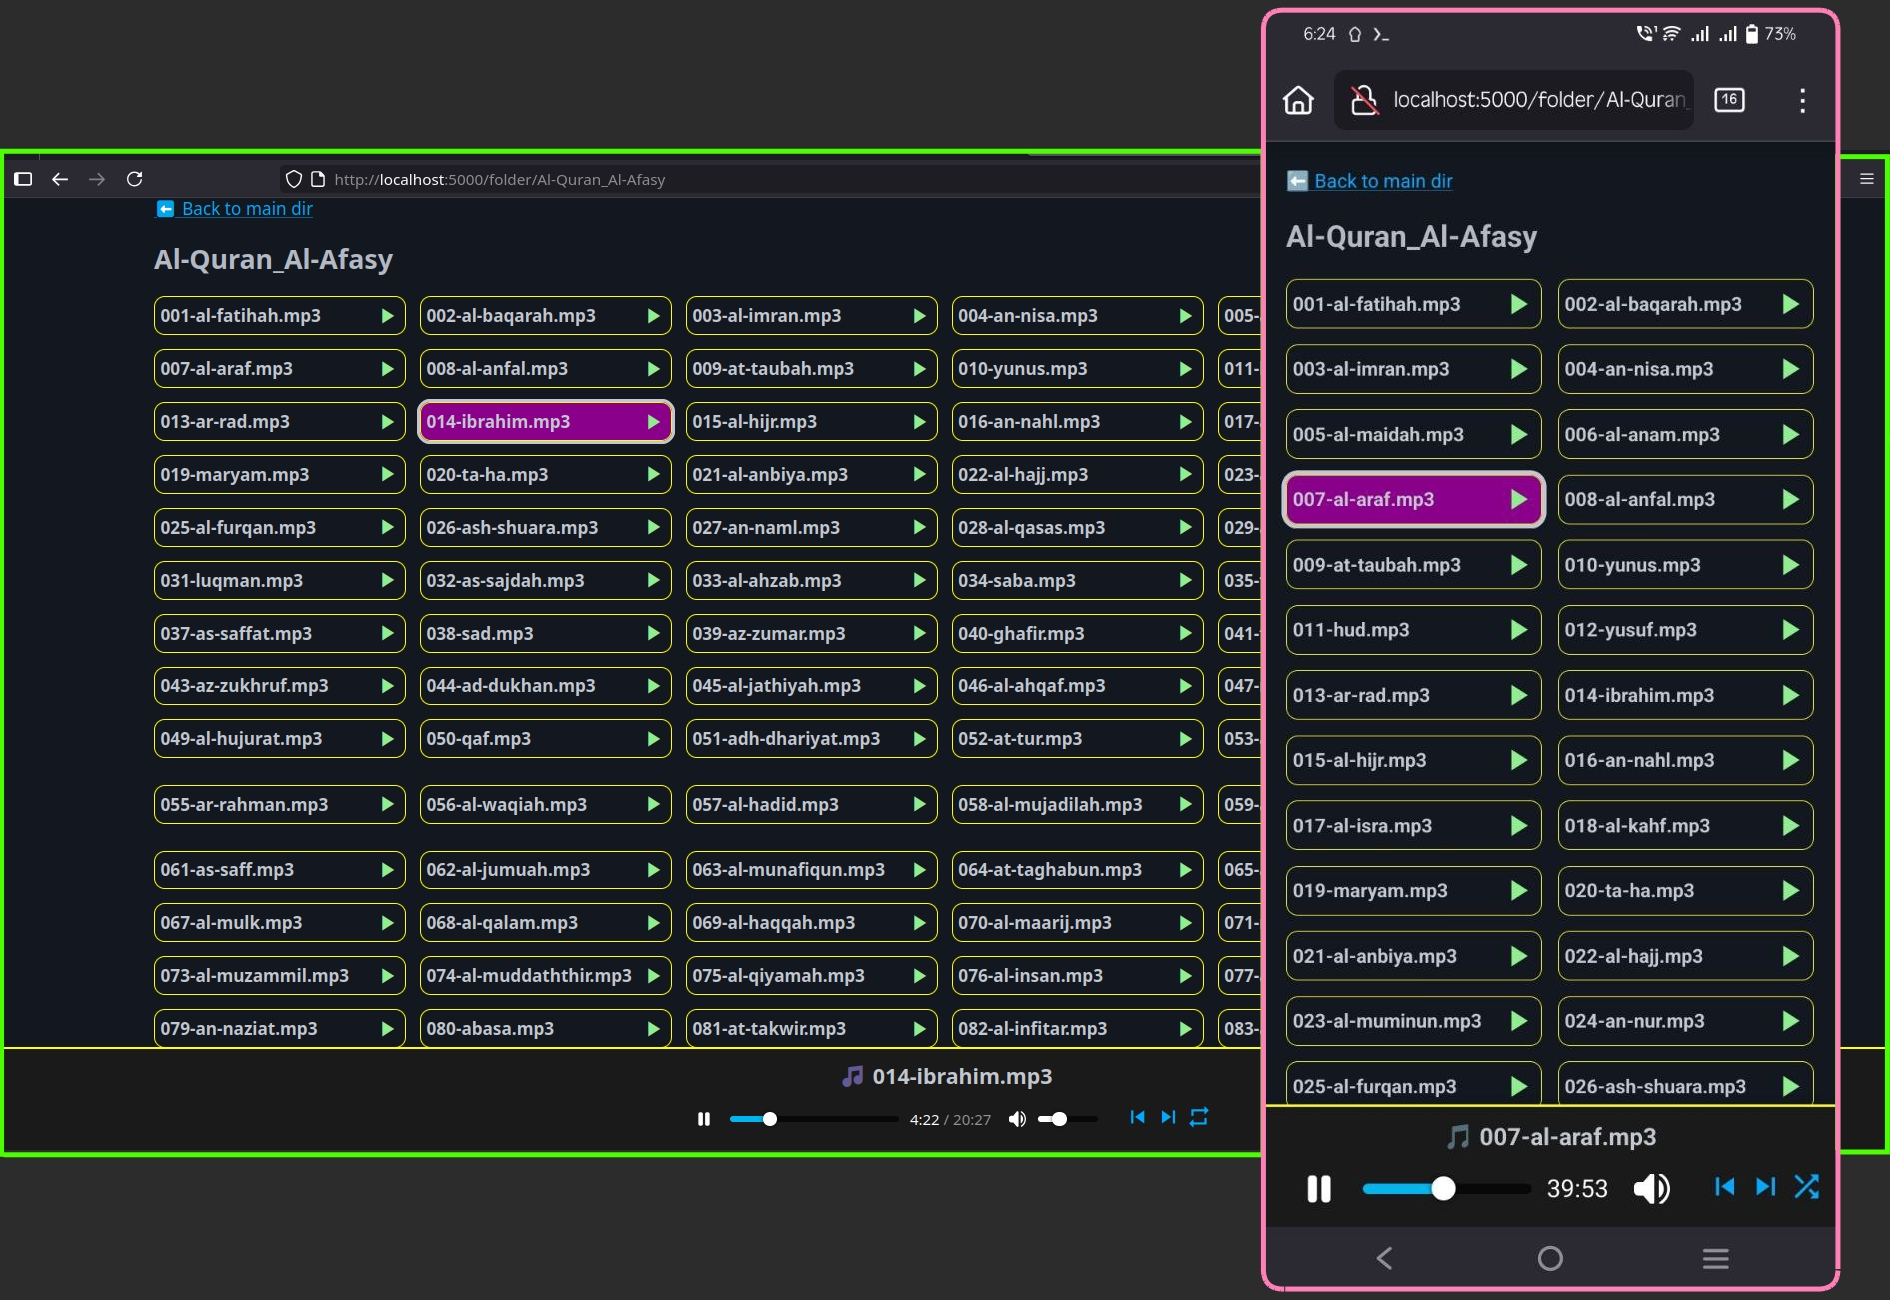
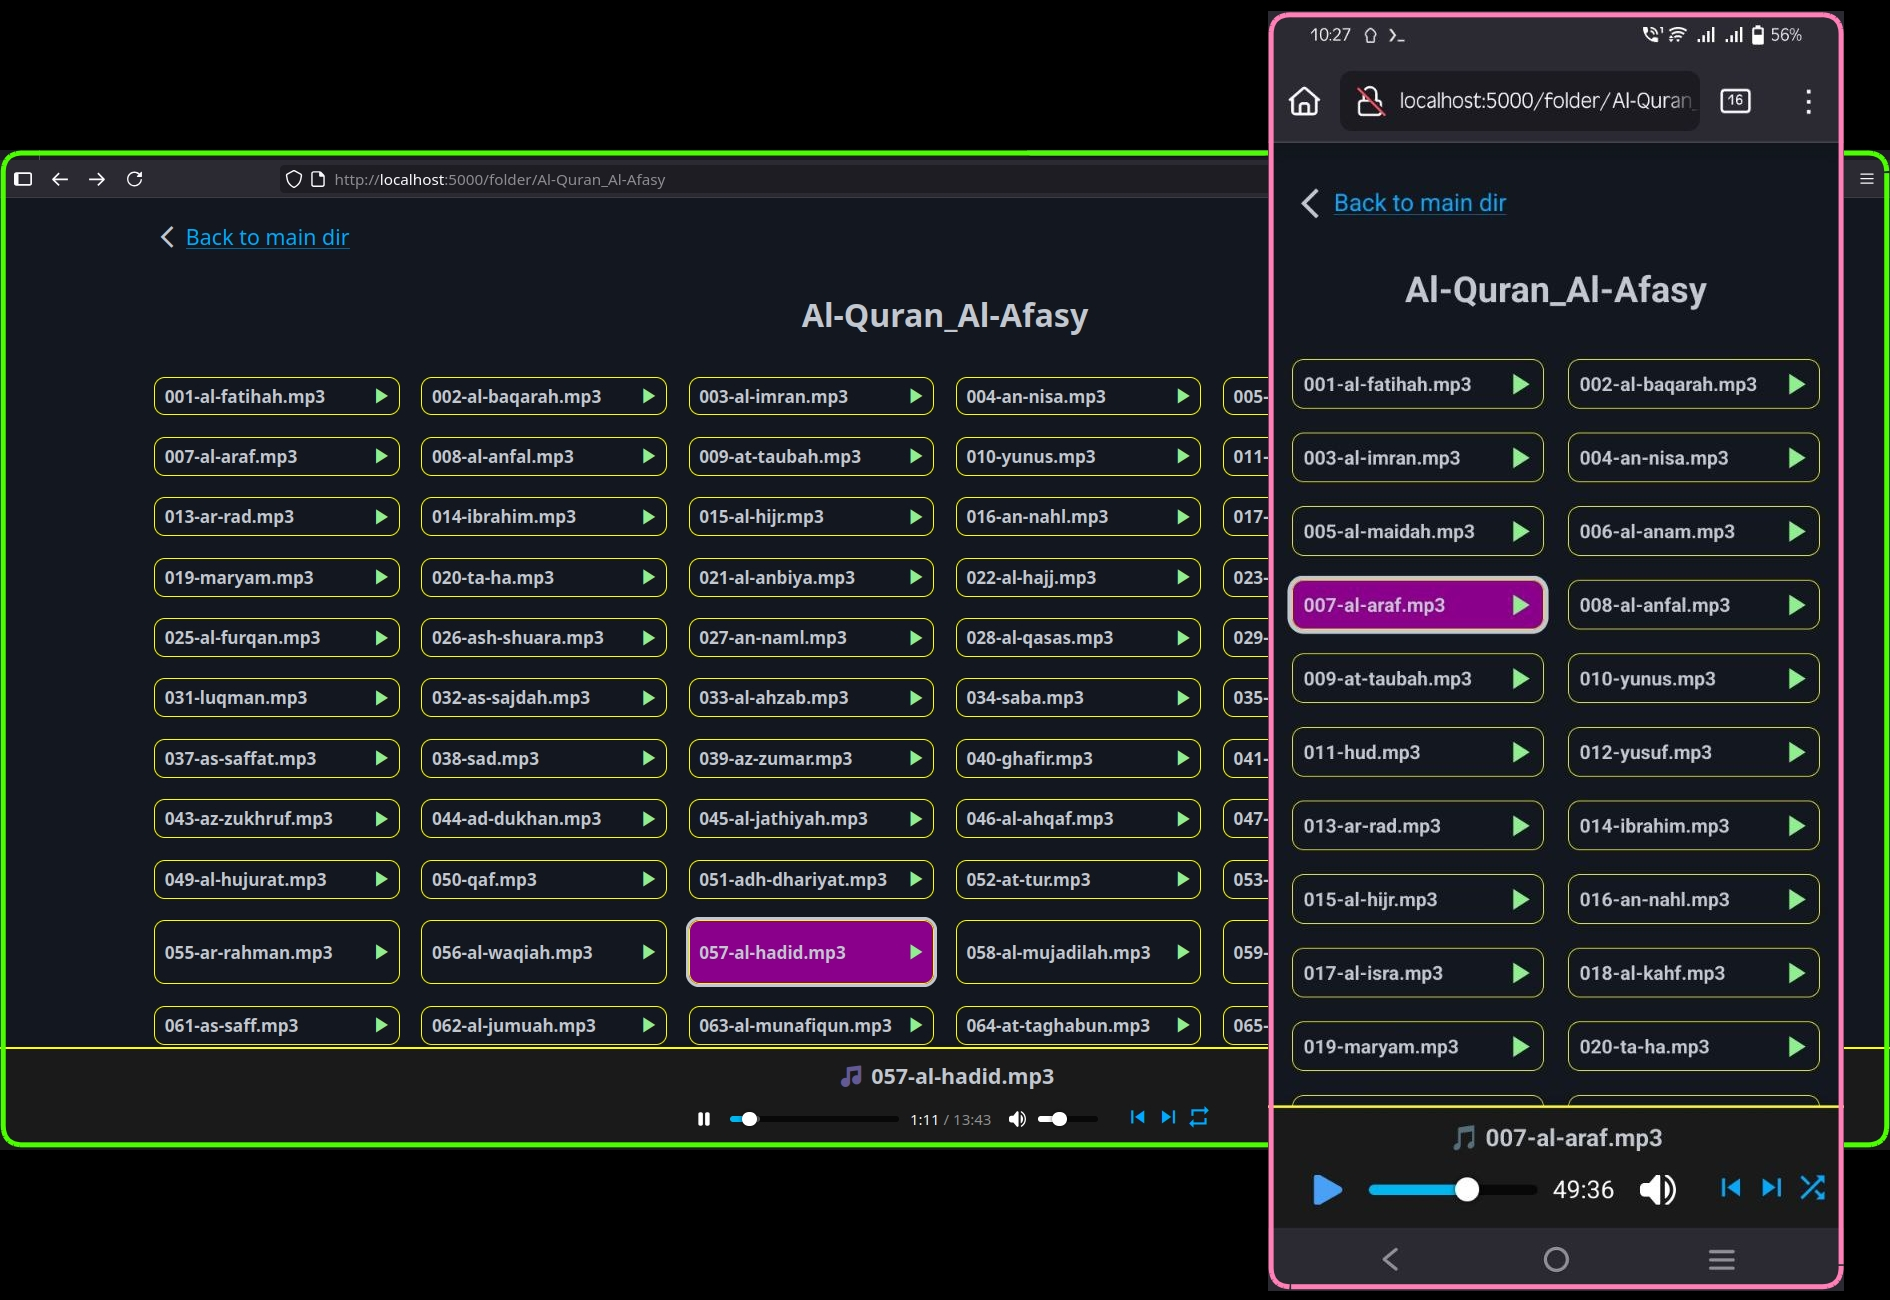
updating server Sun Jun 22 10:51:22 PM +08 2025

diff --git a/templates/folder.html b/templates/folder.html
@@ -24,18 +24,16 @@
     <main class="container">
 
       <section>
-	<a href="/">⬅ Back to main dir</a><br>
+	<span class="material-icons">arrow_back_ios_new</span>&nbsp; <a href="/">Back to main dir</a>
       </section>
 
-      <h4>{{ folder }}</h4>
+      <h3 style="text-align:center">{{ folder }}</h3>
 
       <div id="songGrid" class="grid">
 	{% for song in songs %}
 	<div class="songCard" data-index="{{ loop.index0 }}" data-src="/audio/{{ folder }}/{{ song }}" data-title="{{ song }}">
-	  <div style="display:flex;justify-content:space-between;align-items:center;">
-	    <strong>{{ song }}</strong>
-	    <span class="material-icons" style="color:#90EE90;">play_arrow</span>
-	  </div>
+	  <span class="filename">{{ song }}</span>
+	  <span class="material-icons" style="color:#90EE90;">play_arrow</span>
 	</div>
 	{% endfor %}
       </div>

diff --git a/static/style.css b/static/style.css
@@ -2,12 +2,21 @@ main {
   font-size: .8rem;
 }
 
+#folderList {
+  font-size: 1rem;
+} 
+
+section {
+  display: flex;
+  align-items: center;
+  font-size: 1rem;
+  margin: .75rem 0 2rem 0;
+}
+
 .grid {
   display: grid;
   grid-template-columns: repeat(auto-fit, minmax(200px, 1fr));
-  gap: .65rem;
-  margin: .5rem 0 12rem 0; /* enough space so last row isn't covered */
-  align-items: center;
+  margin: 2rem 0 12rem 0; /* enough space so last row isn't covered */
 }
 
 /* On small screens (phones) */
@@ -18,6 +27,9 @@ main {
 }
 
 .songCard {
+  display: flex;
+  justify-content: space-between;
+  align-items: center;
   border: 1px solid yellow;
   cursor: pointer;
   padding: .25rem;
@@ -34,6 +46,11 @@ main {
 
 .songCard:hover {
   background-color: #8B008B;
+}
+
+.filename {
+  font-weight: bold;
+  margin: 0 .2rem;
 }
 
 #playerBar {

diff --git a/templates/index.html b/templates/index.html
@@ -17,7 +17,7 @@
   <body>
 
     <main class="container">
-      <h2>WRaihan's Audio Player Server</h2>
+      <h3>WRaihan's Audio Player Server</h3>
 
       <ul id="folderList">
 	{% for folder in folders %}
